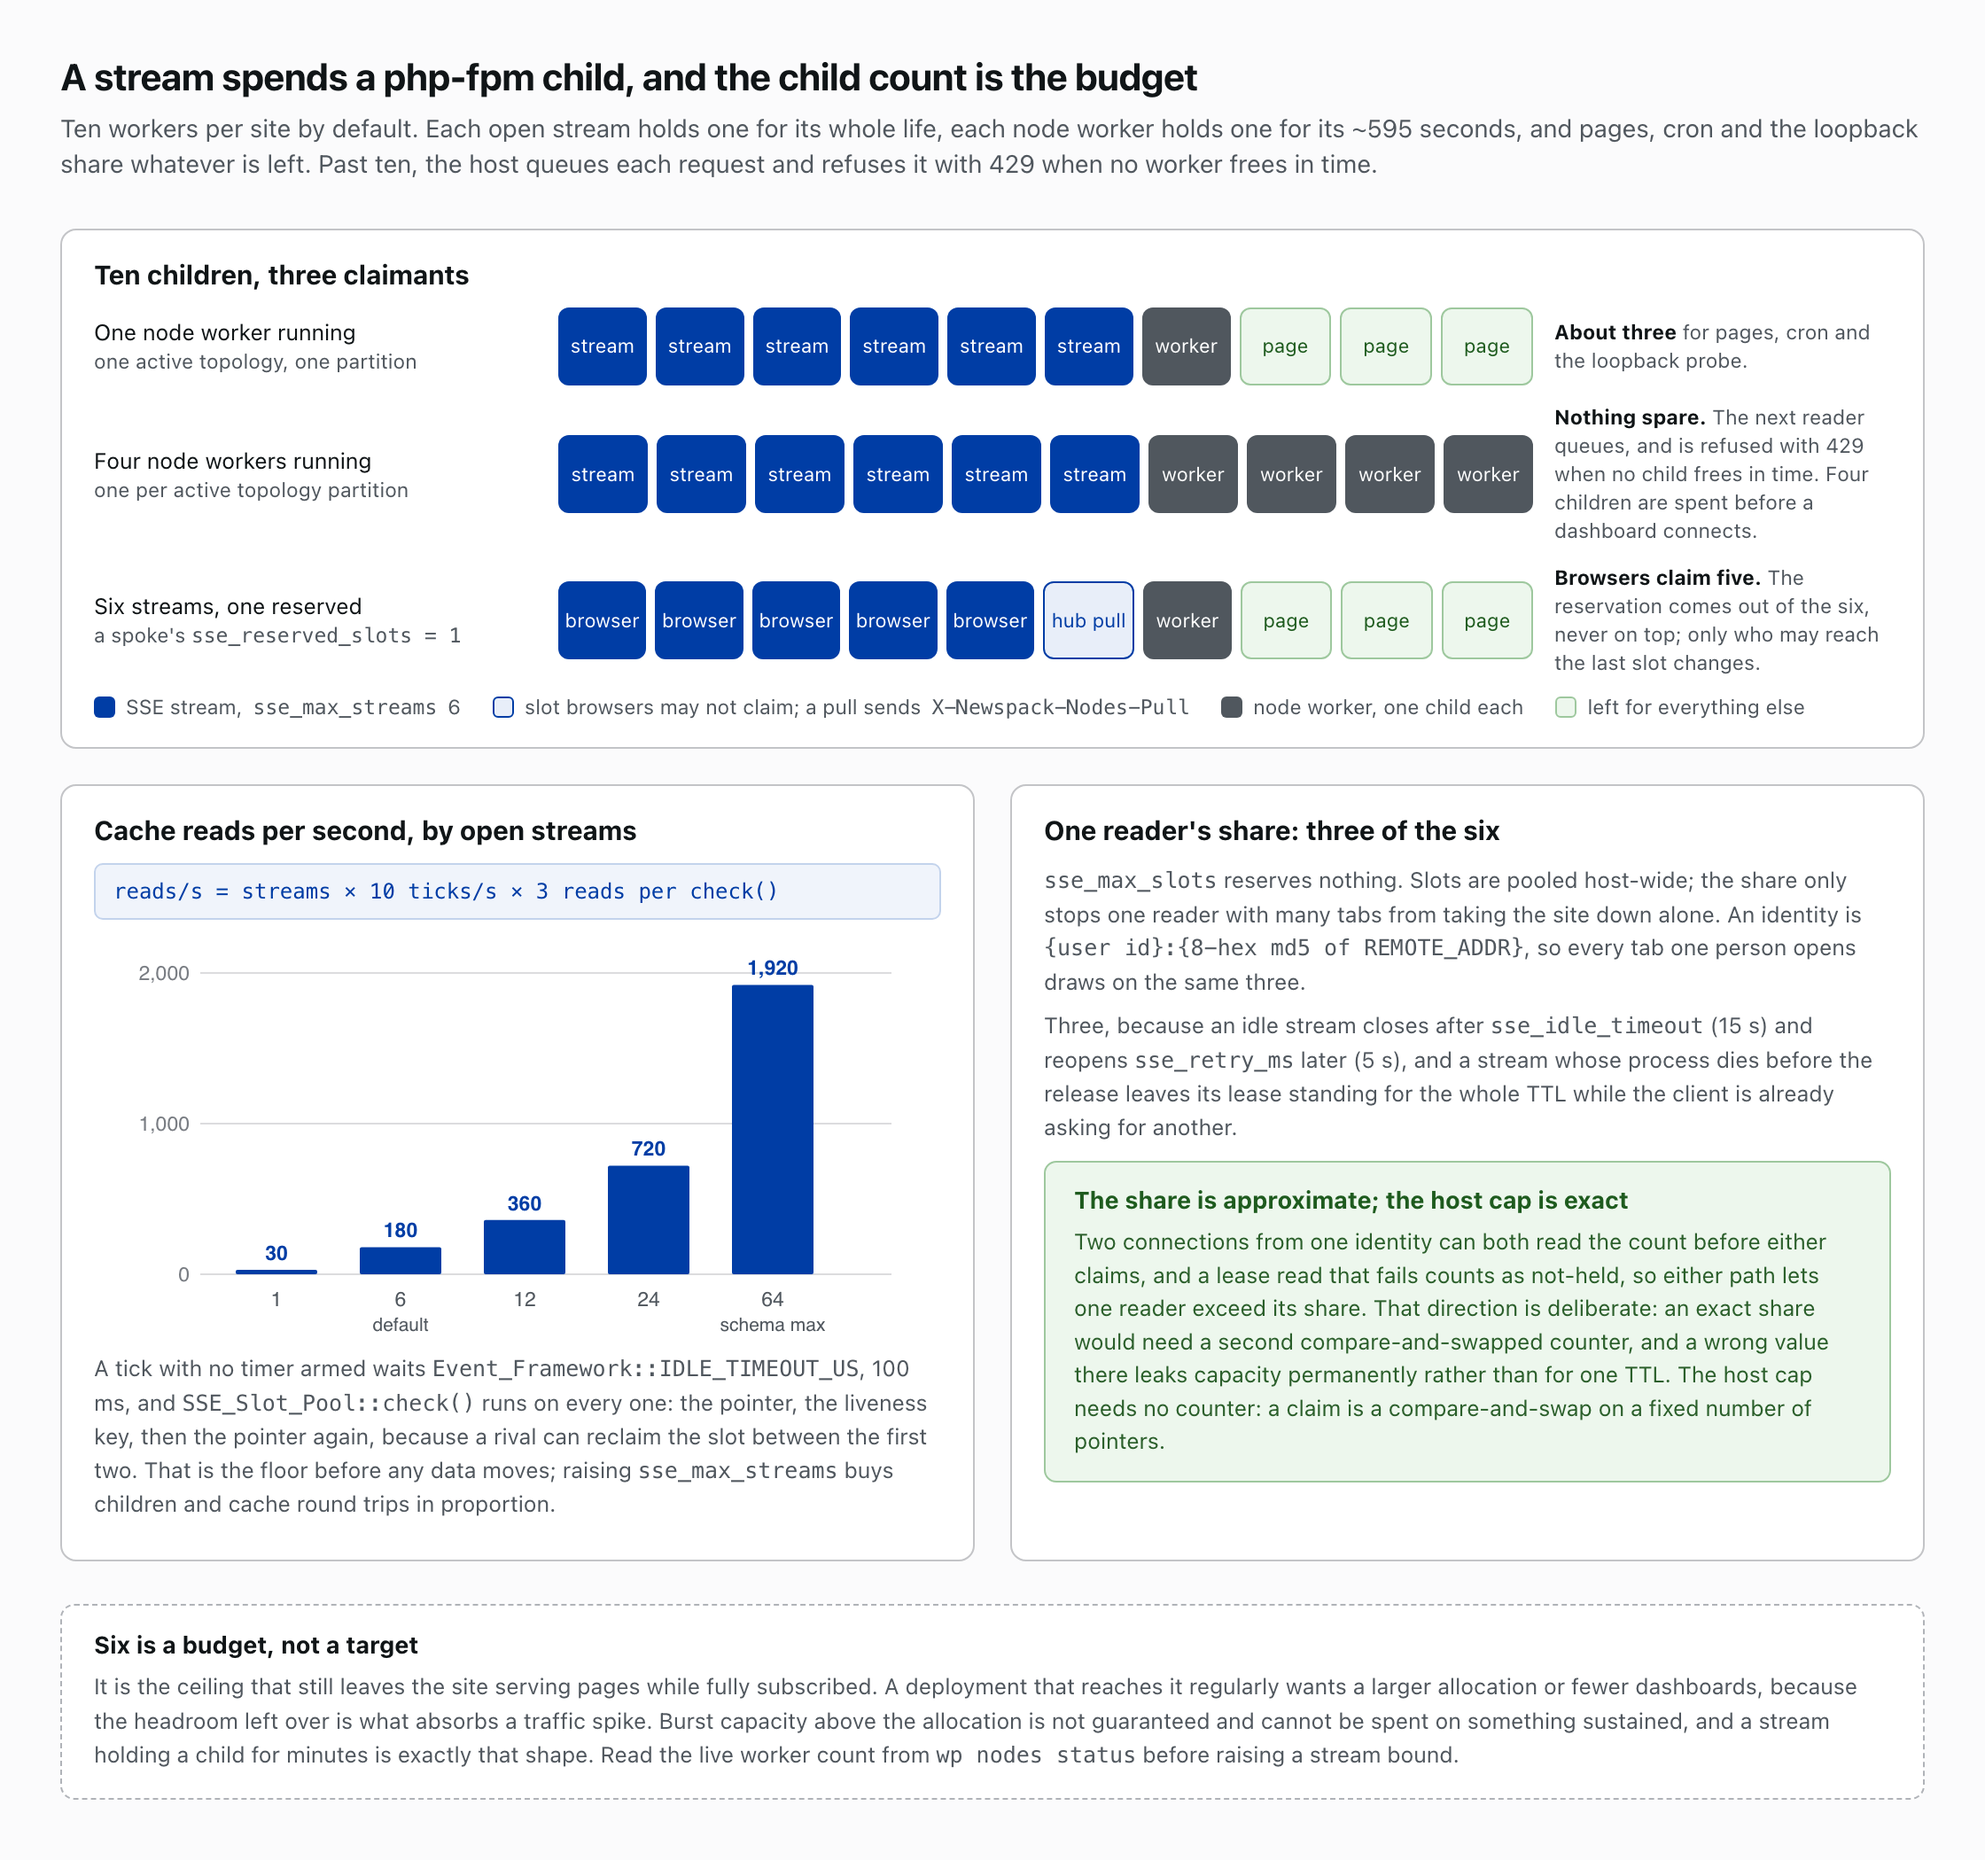
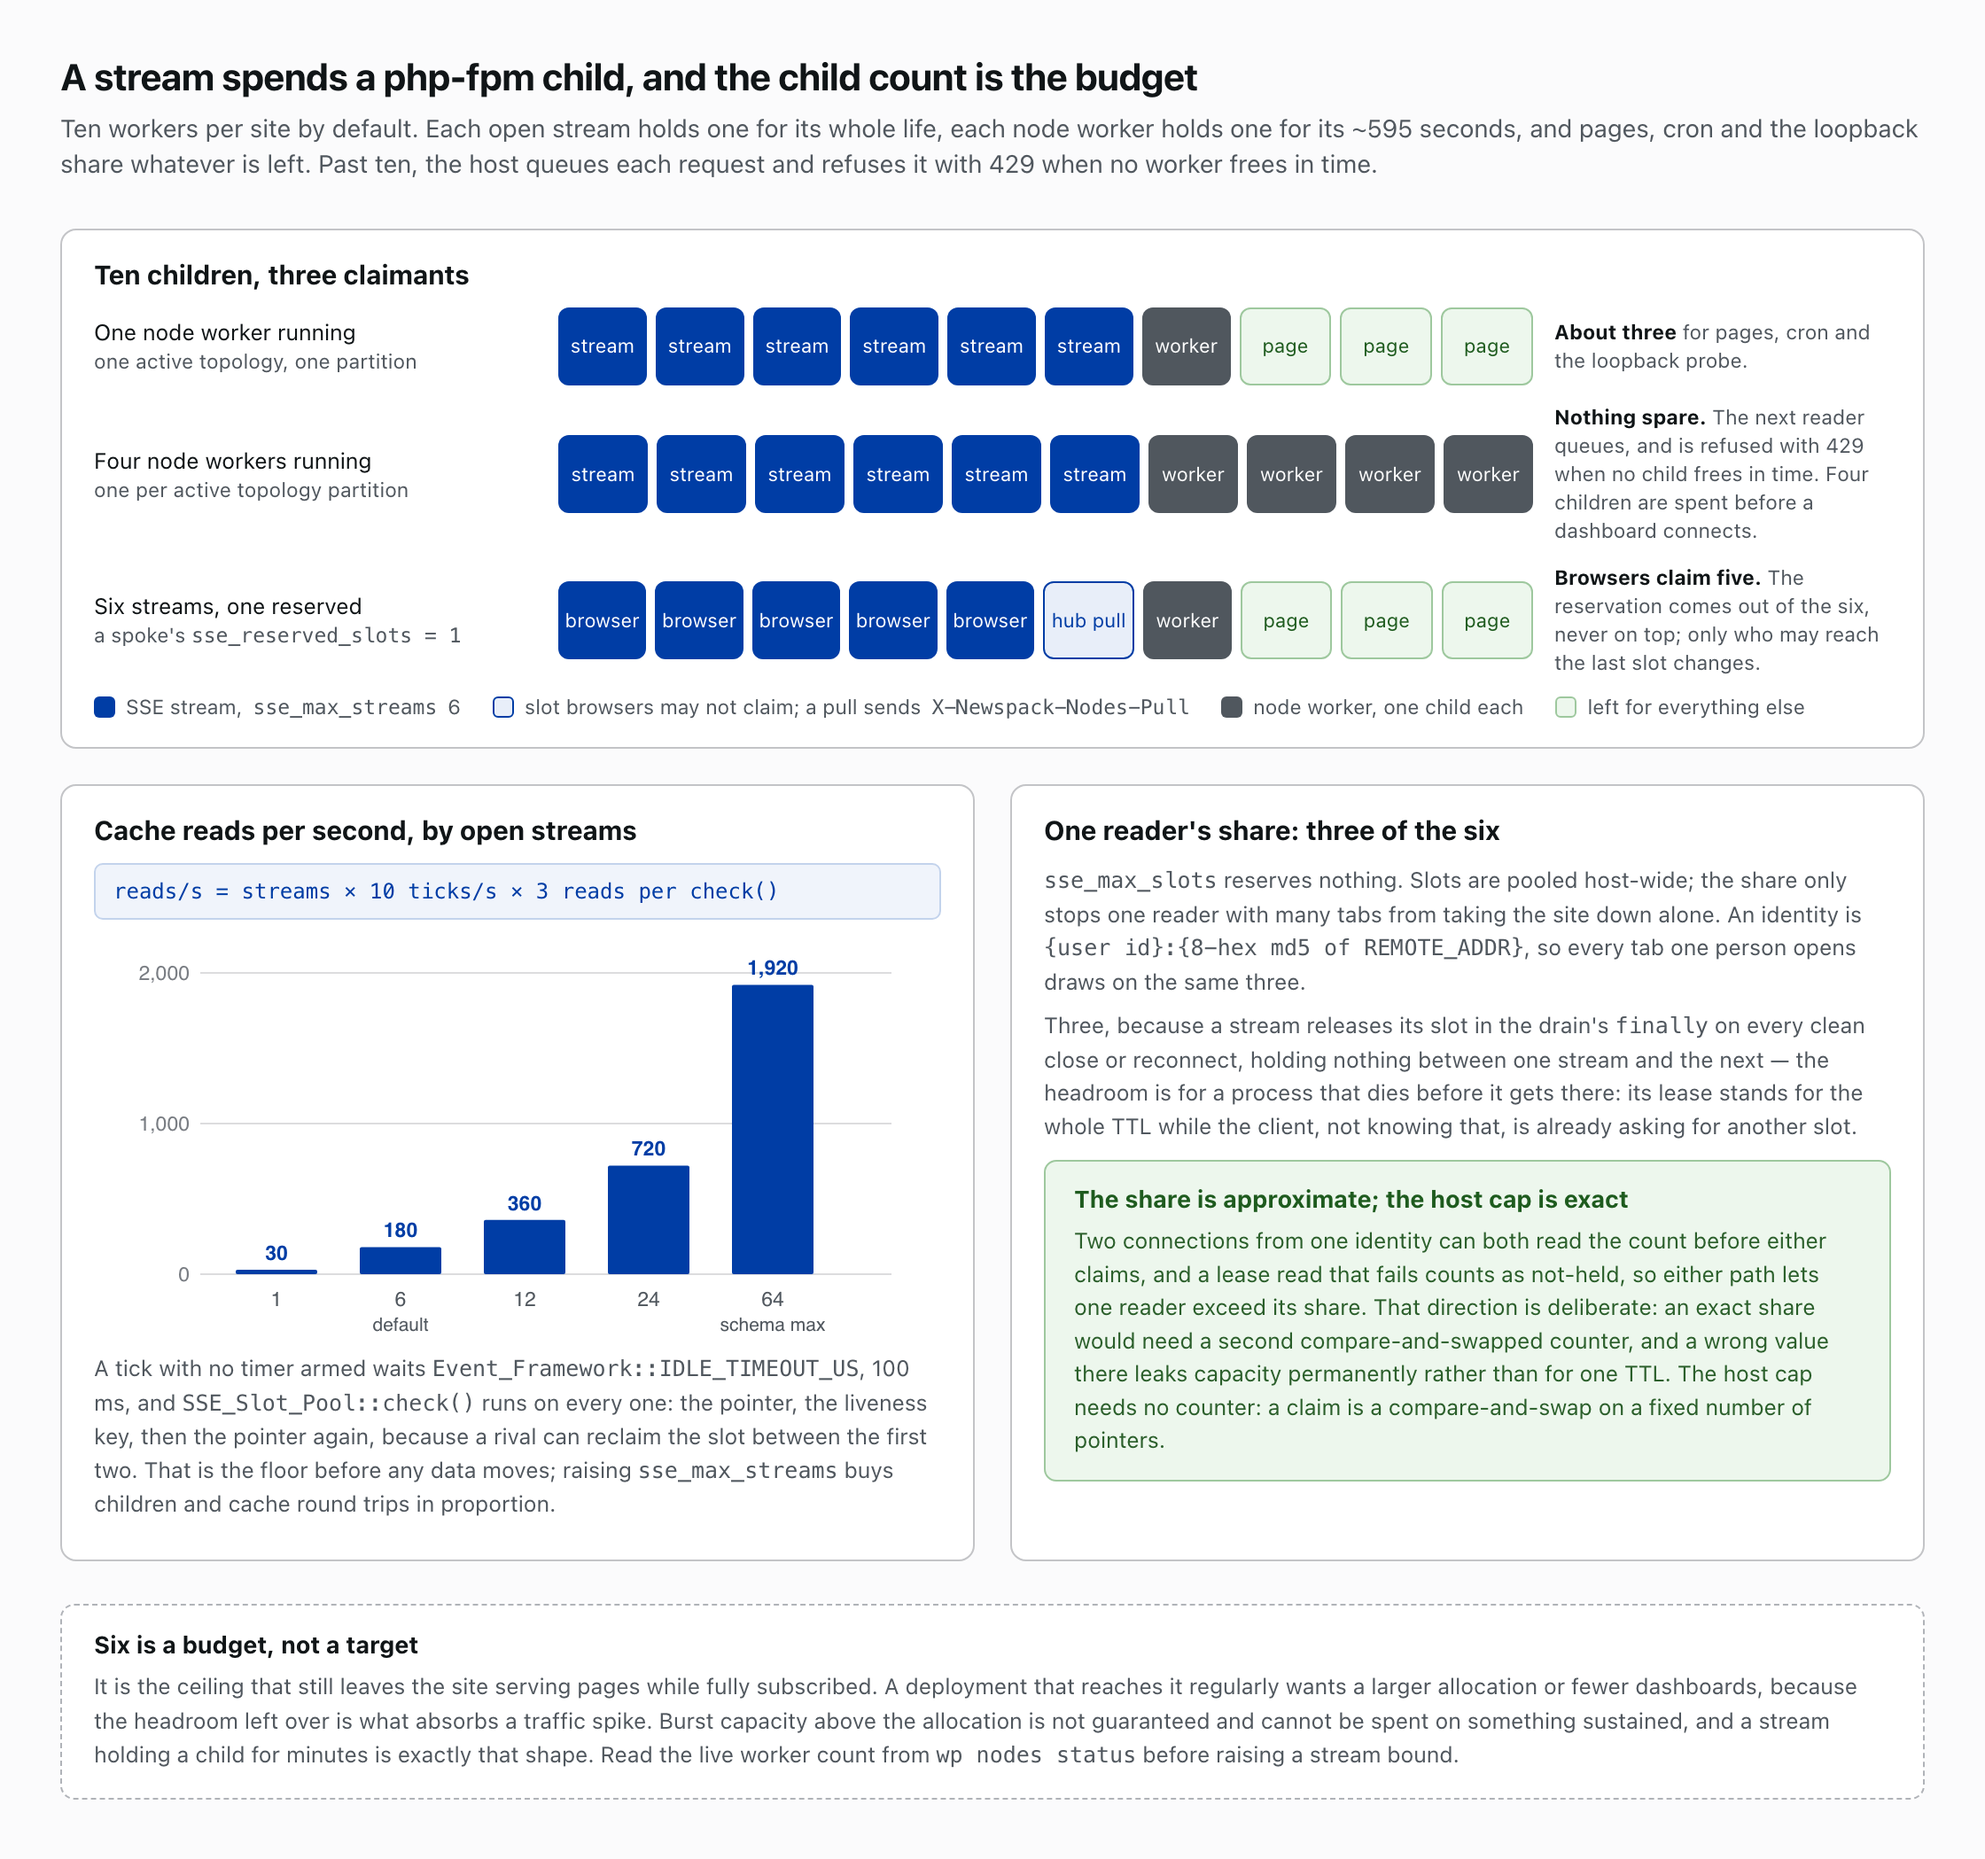
feat(sse): an idle stream closes after five seconds, not fifteen
sse_idle_timeout defaults to 5. A stream on a quiet source closes on its
first tick, because the idle clock seeds from the source's last growth,
and its slot is released in the drain's finally; the three-slot headroom
is for a lease a dead process never released. Docs, the lifecycle and
host-arithmetic sheets, the ledger and upgrading.md say 5.

Core::$now's docblock states its contract: loading the class pins it,
every right_now() caller re-pins it, and a reader wanting one instant
reads it once and passes it down.

diff --git a/docs/img/api-sse-lifecycle.html b/docs/img/api-sse-lifecycle.html
@@ -43,7 +43,7 @@ table.seam td { padding:6px 8px 6px 0; border-top:1px solid #E3E4E6; vertical-al
 <div class="tick">
   <div class="n">1</div><div class="q"><span class="mono">$check_slot( $lease, $partition )</span> false?</div><div class="a end"><b>disconnect</b>: <span class="mono">KEY=slot_lease_lost</span>, <span class="mono">VALUE</span> <span class="mono">SSE slot lease lost</span>, one JSON diagnostic line through the node stderr chain, then close. The terminal frame always means failure: the lease was taken from under the stream.</div>
   <div class="n">2</div><div class="q"><span class="mono">connection_aborted()</span>?</div><div class="a clean">The client went away: close, nothing sent.</div>
-  <div class="n">3</div><div class="q">No <span class="mono">msg</span> for <span class="mono">sse_idle_timeout</span> seconds (default 15; 0 streams until the client goes away)?</div><div class="a clean">Idle close, so a dashboard nobody watches stops holding a PHP-FPM child: a bare EOF with no terminal event, so the client reopens on the <span class="mono">retry</span> schedule. A stream that opens at EOF on a source quiet ten minutes ago is already ten minutes idle and closes on its first tick; an attached worker console never reports idle, because someone is reading it.</div>
+  <div class="n">3</div><div class="q">No <span class="mono">msg</span> for <span class="mono">sse_idle_timeout</span> seconds (default 5; 0 streams until the client goes away)?</div><div class="a clean">Idle close, so a dashboard nobody watches stops holding a PHP-FPM child: a bare EOF with no terminal event, so the client reopens on the <span class="mono">retry</span> schedule. A stream that opens at EOF on a source quiet ten minutes ago is already ten minutes idle and closes on its first tick; an attached worker console never reports idle, because someone is reading it.</div>
   <div class="n">4</div><div class="q">2000 ms since the last <span class="mono">heartbeat</span> (<span class="mono">HEARTBEAT_MS</span>)?</div><div class="a on"><b>heartbeat</b>, VALUE the tick timestamp. Deliberately not data: it never defers the idle close. Glob subscriptions self-heal here: a newly matching dir opens tail-seeked, a vanished one drops, and a <span class="mono">glob()</span> I/O error skips the removal pass rather than re-tail every partition.</div>
   <div class="n">5</div><div class="q">Anything written since the last flush?</div><div class="a on">The 4096-byte padding comment, then <span class="mono">flush()</span>, before the drain sleeps. Every SSE parser discards a comment. Each delivered record went out as a <span class="mono">msg</span> event carrying the packed Message; only those count as data.</div>
 </div>

diff --git a/docs/img/sse-host-arithmetic.html b/docs/img/sse-host-arithmetic.html
@@ -98,7 +98,7 @@ h2 { font-size:15px; margin:0 0 10px; }
   <div class="card">
     <h2>One reader's share: three of the six</h2>
     <p><span class="mono">sse_max_slots</span> reserves nothing. Slots are pooled host-wide; the share only stops one reader with many tabs from taking the site down alone. An identity is <span class="mono">{user id}:{8-hex md5 of REMOTE_ADDR}</span>, so every tab one person opens draws on the same three.</p>
-    <p>Three, because an idle stream closes after <span class="mono">sse_idle_timeout</span> (15 s) and reopens <span class="mono">sse_retry_ms</span> later (5 s), and a stream whose process dies before the release leaves its lease standing for the whole TTL while the client is already asking for another.</p>
+    <p>Three, because a stream releases its slot in the drain's <span class="mono">finally</span> on every clean close or reconnect, holding nothing between one stream and the next — the headroom is for a process that dies before it gets there: its lease stands for the whole TTL while the client, not knowing that, is already asking for another slot.</p>
     <div class="ok" style="margin-top:10px">
       <h4>The share is approximate; the host cap is exact</h4>
       <p>Two connections from one identity can both read the count before either claims, and a lease read that fails counts as not-held, so either path lets one reader exceed its share. That direction is deliberate: an exact share would need a second compare-and-swapped counter, and a wrong value there leaks capacity permanently rather than for one TTL. The host cap needs no counter: a claim is a compare-and-swap on a fixed number of pointers.</p>

diff --git a/includes/class-core.php b/includes/class-core.php
@@ -154,7 +154,25 @@ class Core {
 	/** @var array<string,Node> Registered nodes keyed by name; every entry is a Node ($this from Node::name()). */
 	public static array $nodes_by_name = [];
 
-	/** @var float Microsecond-resolution timestamp; refreshed per tick through right_now(), pinned directly in tests. */
+	/**
+	 * The tick's clock, epoch seconds at microsecond resolution; readers date
+	 * from it rather than reading the wall themselves.
+	 *
+	 * Contract: `right_now()` writes it, so every caller re-pins it, in a
+	 * worker and in a request alike. Loading this class pins it first,
+	 * because the file ends in `reset()`, which stamps `$init_time` through
+	 * `right_now()`, so request scope has a tick before any verb runs. A
+	 * reader wanting one instant reads it once and passes it down. Tests pin
+	 * it directly.
+	 *
+	 * In request or CLI scope, where nothing drains the event loop, the tick
+	 * holds that class-load instant until some `right_now()` caller advances
+	 * it — nothing else re-pins it on that path. A reader there that
+	 * genuinely needs a fresh timestamp calls `right_now()` itself, per its
+	 * own docblock.
+	 *
+	 * @var float
+	 */
 	public static float $now = 0.0;
 
 	/**

diff --git a/newspack-nodes-config.php b/newspack-nodes-config.php
@@ -91,7 +91,7 @@ return [
     // 'alert_emit_interval'        => 300,
 
     // Seconds without DATA before an SSE stream closes clean; 0 = never.
-    // 'sse_idle_timeout'           => 15,
+    // 'sse_idle_timeout'           => 5,
 
     // Reopen delay, sent as a `retry` EVENT when the stream opens rather than
     // as the protocol `retry:` field, because the client owns reconnect.
@@ -107,8 +107,9 @@ return [
     // 'sse_reserved_slots'         => 0,
 
     // One reader's share of that host total; a reader is a user id paired with
-    // an IP hash. The shipped 3 leaves room for a stream reopening on the
-    // sse_idle_timeout plus sse_retry_ms cycle while its dead lease stands.
+    // an IP hash. The shipped 3 leaves room for a lease a dead process never
+    // released, standing for the whole TTL while the client's real reconnect
+    // already wants a slot of its own.
     // 'sse_max_slots'              => 3,
 
     // Seconds a slot lease survives without a client heartbeat; only the

diff --git a/includes/class-sse-slot-pool.php b/includes/class-sse-slot-pool.php
@@ -48,9 +48,9 @@ class SSE_Slot_Pool {
 	 * more than the whole host, since a share that cannot bind is not a share.
 	 *
 	 * A per-identity cap bounds one reader and never the host; `max_streams()`
-	 * is what protects the site. The shipped 3 leaves room for an idle stream
-	 * reopening on the `sse_idle_timeout` plus `sse_retry_ms` cycle while its
-	 * dead lease still holds a slot.
+	 * is what protects the site. The shipped 3 leaves room for a lease a dead
+	 * process never released, standing for the whole TTL while the client's
+	 * real reconnect already wants a slot of its own.
 	 *
 	 * @return int Slots one identity may hold at once, at least 1.
 	 */

diff --git a/tests/unit/SettingsSchemaTest.php b/tests/unit/SettingsSchemaTest.php
@@ -215,7 +215,7 @@ class SettingsSchemaTest extends TestCase {
 			$fields[ $field->key ] = $field;
 		}
 
-		$this->assertSame( 15, $fields['sse_idle_timeout']->default ?? null );
+		$this->assertSame( 5, $fields['sse_idle_timeout']->default ?? null );
 		$this->assertSame( 5000, $fields['sse_retry_ms']->default ?? null );
 		$this->assertSame(
 			0,

diff --git a/includes/class-settings-schema.php b/includes/class-settings-schema.php
@@ -303,7 +303,7 @@ class Settings_Schema {
 				new Field(
 					key: 'sse_idle_timeout',
 					type: 'int',
-					default: 15,
+					default: 5,
 					ui: false,
 				),
 				new Field(

diff --git a/docs/sse-host-budget.md b/docs/sse-host-budget.md
@@ -74,7 +74,7 @@ stream bound.
 | `sse_max_slots` | 3 | 1–64, and never above `sse_max_streams` | Streams one identity holds at once |
 | `sse_reserved_slots` | 0 | 0–63, and always leaving one slot claimable | Trailing slots browsers may not claim |
 | `sse_slot_ttl` | 60 | 45–3600, raised to 45 rather than honoured below it | Lease lifetime in seconds |
-| `sse_idle_timeout` | 15 | none declared | Seconds without data before a stream closes clean; 0 never closes |
+| `sse_idle_timeout` | 5 | none declared | Seconds without data before a stream closes clean; 0 never closes |
 | `sse_retry_ms` | 5000 | none declared | Milliseconds the client waits before reopening |
 
 None of the six appears on Settings → Nodes Runtime, because [`Settings_Schema`](../includes/class-settings-schema.php)

diff --git a/docs/upgrading.md b/docs/upgrading.md
@@ -4,6 +4,14 @@ Breaking changes that affect a plugin built on the substrate — topology files,
 
 **Maintenance rule:** a release that changes any consumer-facing contract adds its entry here in the same commit as its CHANGELOG entry. No entry means nothing to do.
 
+## Unreleased
+
+- **An idle `/messages/stream` or `/log/stream` connection now closes after
+  five seconds of no `msg` event, not fifteen.** `sse_idle_timeout` defaults
+  to 5. A site that already sets the key in a config file or as a
+  `newspack_nodes_sse_idle_timeout` option keeps its own value; only the
+  code-level default changed.
+
 ## 2.65.6
 
 - **`_http`'s target is `_null`, not `_output`.** A browser graph that read

diff --git a/docs/API.md b/docs/API.md
@@ -819,7 +819,7 @@ apart:
 | `heartbeat` | `KEY=heartbeat`, VALUE the tick timestamp | Liveness every `HEARTBEAT_MS = 2000`ms. Deliberately not data: a heartbeat never defers the idle close. |
 | `disconnect` | `KEY=slot_lease_lost`, VALUE `SSE slot lease lost` | The terminal frame for a stream whose lease was taken from under it. |
 
-The stream **closes itself after `sse_idle_timeout` seconds** (default 15)
+The stream **closes itself after `sse_idle_timeout` seconds** (default 5)
 with no `msg` event. That idle close is a bare EOF with no terminal event; a
 `disconnect` frame always means failure, and `SSE_In_Node` is the reference
 implementation for consuming one.

diff --git a/CHANGELOG.md b/CHANGELOG.md
@@ -7,6 +7,12 @@ and this project adheres to [Semantic Versioning](https://semver.org/spec/v2.0.0
 
 ## [Unreleased]
 
+### Changed
+
+- **An idle SSE stream closes after five seconds, not fifteen.**
+  `sse_idle_timeout` defaults to 5; a site that sets the key keeps its
+  own value.
+
 ## [2.65.11] - 2026-09-22
 
 ### Fixed
